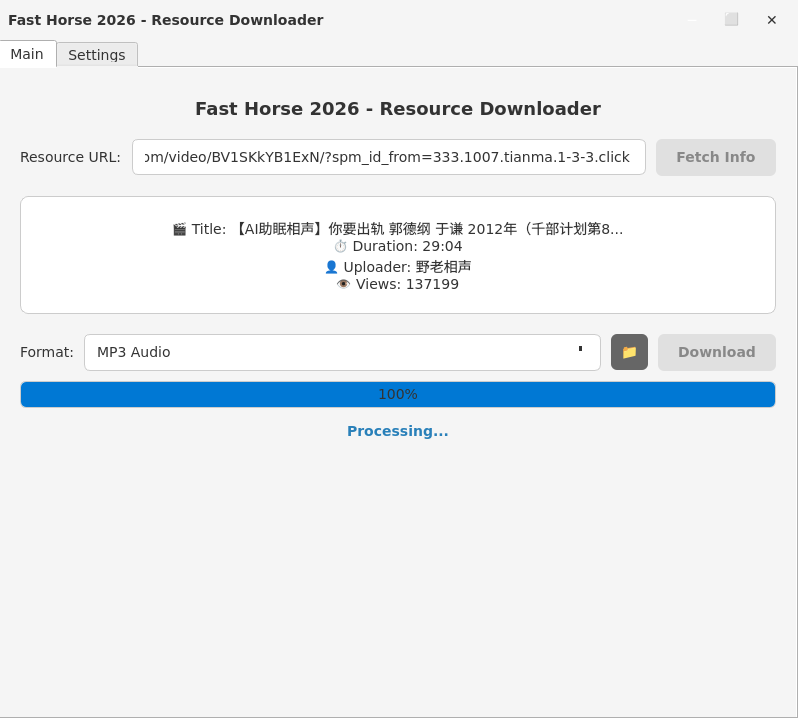
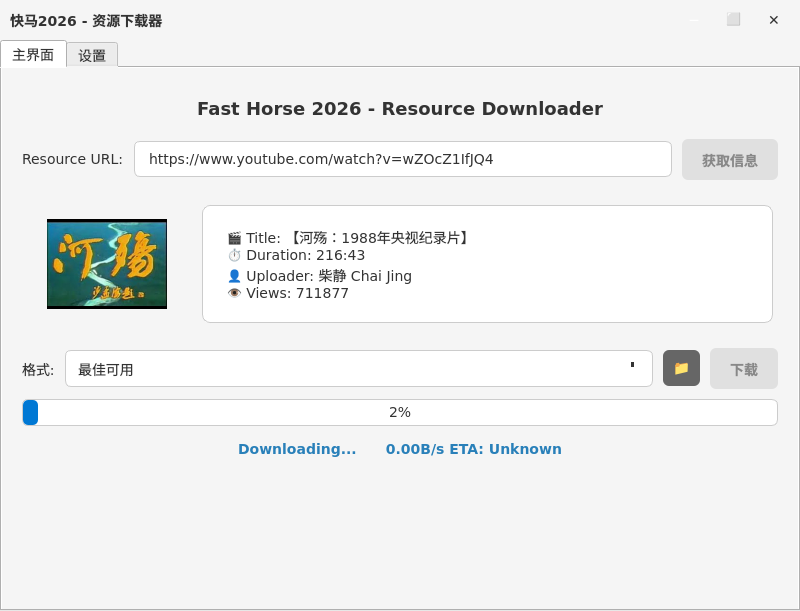
muti-threads download support

diff --git a/src/app/main_window.py b/src/app/main_window.py
@@ -239,7 +239,7 @@ class MainWindow(QMainWindow):
         self.thumbnail_label.setObjectName("thumbnail_label")
         self.thumbnail_label.setFixedSize(160, 90)
         self.thumbnail_label.setAlignment(Qt.AlignCenter)
-        self.thumbnail_label.setStyleSheet("background-color: #808080; border-radius: 5px;")
+        self.thumbnail_label.setStyleSheet("background-color: #CCCCCC; border-radius: 5px;")
         preview_layout.addWidget(self.thumbnail_label)
         
         # Video info (right side)
@@ -380,19 +380,29 @@ class MainWindow(QMainWindow):
         self.proxy_group.setLayout(proxy_layout)
         grid_layout.addWidget(self.proxy_group, 1, 0)
         
-        # Show Thumbnail Section (row 1, col 1)
-        self.thumbnail_group = QGroupBox(translator.get('settings_show_thumbnail'))
-        thumbnail_layout = QVBoxLayout()
+        # Misc. Section (row 1, col 1)
+        self.thumbnail_group = QGroupBox(translator.get('settings_misc'))
+        misc_layout = QFormLayout()
         
-        self.show_thumbnail_checkbox = QCheckBox(translator.get('settings_show_thumbnail'))
+        # Show thumbnail checkbox
+        self.show_thumbnail_checkbox = QCheckBox()
         # Default is checked
         saved_show_thumbnail = self.settings.value("show_thumbnail", "true")
         self.show_thumbnail_checkbox.setChecked(saved_show_thumbnail != "false")
-        
         self.show_thumbnail_checkbox.stateChanged.connect(self.toggle_thumbnail)
+        misc_layout.addRow(translator.get('settings_show_thumbnail'), self.show_thumbnail_checkbox)
         
-        thumbnail_layout.addWidget(self.show_thumbnail_checkbox)
-        self.thumbnail_group.setLayout(thumbnail_layout)
+        # Download threads
+        self.threads_combo = QComboBox()
+        self.threads_combo.addItems(["1", "2", "4", "8"])
+        saved_threads = self.settings.value("download_threads", "1")
+        index = self.threads_combo.findText(saved_threads)
+        if index >= 0:
+            self.threads_combo.setCurrentIndex(index)
+        self.threads_combo.currentIndexChanged.connect(self.save_threads_setting)
+        misc_layout.addRow(translator.get('settings_threads') + ":", self.threads_combo)
+        
+        self.thumbnail_group.setLayout(misc_layout)
         grid_layout.addWidget(self.thumbnail_group, 1, 1)
         
         # About Section (row 2, spans both columns)
@@ -446,6 +456,11 @@ class MainWindow(QMainWindow):
         # Show/hide thumbnail immediately
         if hasattr(self, 'thumbnail_label'):
             self.thumbnail_label.setVisible(show)
+    
+    def save_threads_setting(self, index):
+        """Save download threads setting"""
+        threads = self.threads_combo.currentText()
+        self.settings.setValue("download_threads", threads)
     
     def change_language(self, lang_code):
         """Change application language"""
@@ -529,8 +544,7 @@ class MainWindow(QMainWindow):
             self.proxy_group.setTitle(translator.get('settings_proxy'))
             self.save_proxy_btn.setText(translator.get('settings_save'))
             
-            self.thumbnail_group.setTitle(translator.get('settings_show_thumbnail'))
-            self.show_thumbnail_checkbox.setText(translator.get('settings_show_thumbnail'))
+            self.thumbnail_group.setTitle(translator.get('settings_misc'))
             
             self.about_group.setTitle(translator.get('settings_about'))
             about_text = f"{translator.get('about_description')}\n\n{translator.get('about_author')}\n{translator.get('about_version')} v{__version__}"
@@ -686,7 +700,7 @@ class MainWindow(QMainWindow):
                 f"👤 Uploader: {info.get('uploader', 'Unknown')}"
             )
             self.thumbnail_label.setText("📁")
-            self.thumbnail_label.setStyleSheet("background-color: #808080; border-radius: 5px; color: white;")
+            self.thumbnail_label.setStyleSheet("background-color: #CCCCCC; border-radius: 5px; color: white;")
             self.is_playlist = True
         else:
             # Single video
@@ -711,10 +725,10 @@ class MainWindow(QMainWindow):
                     self.download_thumbnail(thumbnail_url)
                 else:
                     self.thumbnail_label.setText("🖼")
-                    self.thumbnail_label.setStyleSheet("background-color: #808080; border-radius: 5px; color: white;")
+                    self.thumbnail_label.setStyleSheet("background-color: #CCCCCC; border-radius: 5px; color: white;")
             else:
                 self.thumbnail_label.setText("")
-                self.thumbnail_label.setStyleSheet("background-color: #808080; border-radius: 5px;")
+                self.thumbnail_label.setStyleSheet("background-color: #CCCCCC; border-radius: 5px;")
         
         self.set_status(translator.get('status_ready') or "Ready")
         self.download_btn.setEnabled(True)
@@ -722,7 +736,7 @@ class MainWindow(QMainWindow):
     def download_thumbnail(self, url):
         """Download and display video thumbnail"""
         self.thumbnail_label.setText("⏳")
-        self.thumbnail_label.setStyleSheet("background-color: #808080; border-radius: 5px; color: white;")
+        self.thumbnail_label.setStyleSheet("background-color: #CCCCCC; border-radius: 5px; color: white;")
         
         request = QNetworkRequest(QUrl(url))
         request.setHeader(QNetworkRequest.KnownHeaders.UserAgentHeader, 
@@ -758,11 +772,11 @@ class MainWindow(QMainWindow):
                 self.thumbnail_label.setStyleSheet("border-radius: 5px;")
             else:
                 self.thumbnail_label.setText("🖼")
-                self.thumbnail_label.setStyleSheet("background-color: #808080; border-radius: 5px; color: white;")
+                self.thumbnail_label.setStyleSheet("background-color: #CCCCCC; border-radius: 5px; color: white;")
         else:
             print(f"DEBUG: Thumbnail download error: {reply.error()}", flush=True)
             self.thumbnail_label.setText("🖼")
-            self.thumbnail_label.setStyleSheet("background-color: #808080; border-radius: 5px; color: white;")
+            self.thumbnail_label.setStyleSheet("background-color: #CCCCCC; border-radius: 5px; color: white;")
         
     def on_fetch_error(self, error):
         # Stop timers
@@ -843,8 +857,11 @@ class MainWindow(QMainWindow):
             output_template = f'{self.output_dir}/%(playlist_title)s/%(title).80s.%(ext)s'
         else:
             output_template = f'{self.output_dir}/%(title).80s.%(ext)s'
+        
+        # Get download threads setting
+        threads = int(self.settings.value("download_threads", "1"))
             
-        self.download_thread = DownloadThread(url, format_spec, output_template)
+        self.download_thread = DownloadThread(url, format_spec, output_template, threads)
         self.download_thread.progress.connect(self.update_progress)
         self.download_thread.status.connect(self.status_label.setText)
         self.download_thread.finished.connect(self.on_download_complete)

diff --git a/src/app/download_manager.py b/src/app/download_manager.py
@@ -564,11 +564,12 @@ class DownloadThread(QThread):
     finished = Signal(str)
     error = Signal(str)
     
-    def __init__(self, url, format_spec, output_template):
+    def __init__(self, url, format_spec, output_template, threads=1):
         super().__init__()
         self.url = url
         self.format_spec = format_spec
         self.output_template = output_template
+        self.threads = threads
         
     def run(self):
         import os
@@ -691,6 +692,7 @@ class DownloadThread(QThread):
                     'http_headers': {
                         'Accept-Language': 'en-US,en;q=0.9',
                     },
+                    'concurrent_fragment_download': self.threads,
                     **opts
                 }
                 

diff --git a/src/app/translations.py b/src/app/translations.py
@@ -30,6 +30,8 @@ class Translator:
             'settings_proxy': "Proxy Settings",
             'settings_about': "About",
             'settings_show_thumbnail': "Show Thumbnail",
+            'settings_threads': "Download Threads",
+            'settings_misc': "Misc.",
 
             # Language options
             'language_english': "English",
@@ -119,6 +121,8 @@ class Translator:
             'settings_proxy': "代理设置",
             'settings_about': "关于",
             'settings_show_thumbnail': "显示封面",
+            'settings_threads': "下载线程数",
+            'settings_misc': "杂项",
 
             # Language options
             'language_english': "English",
